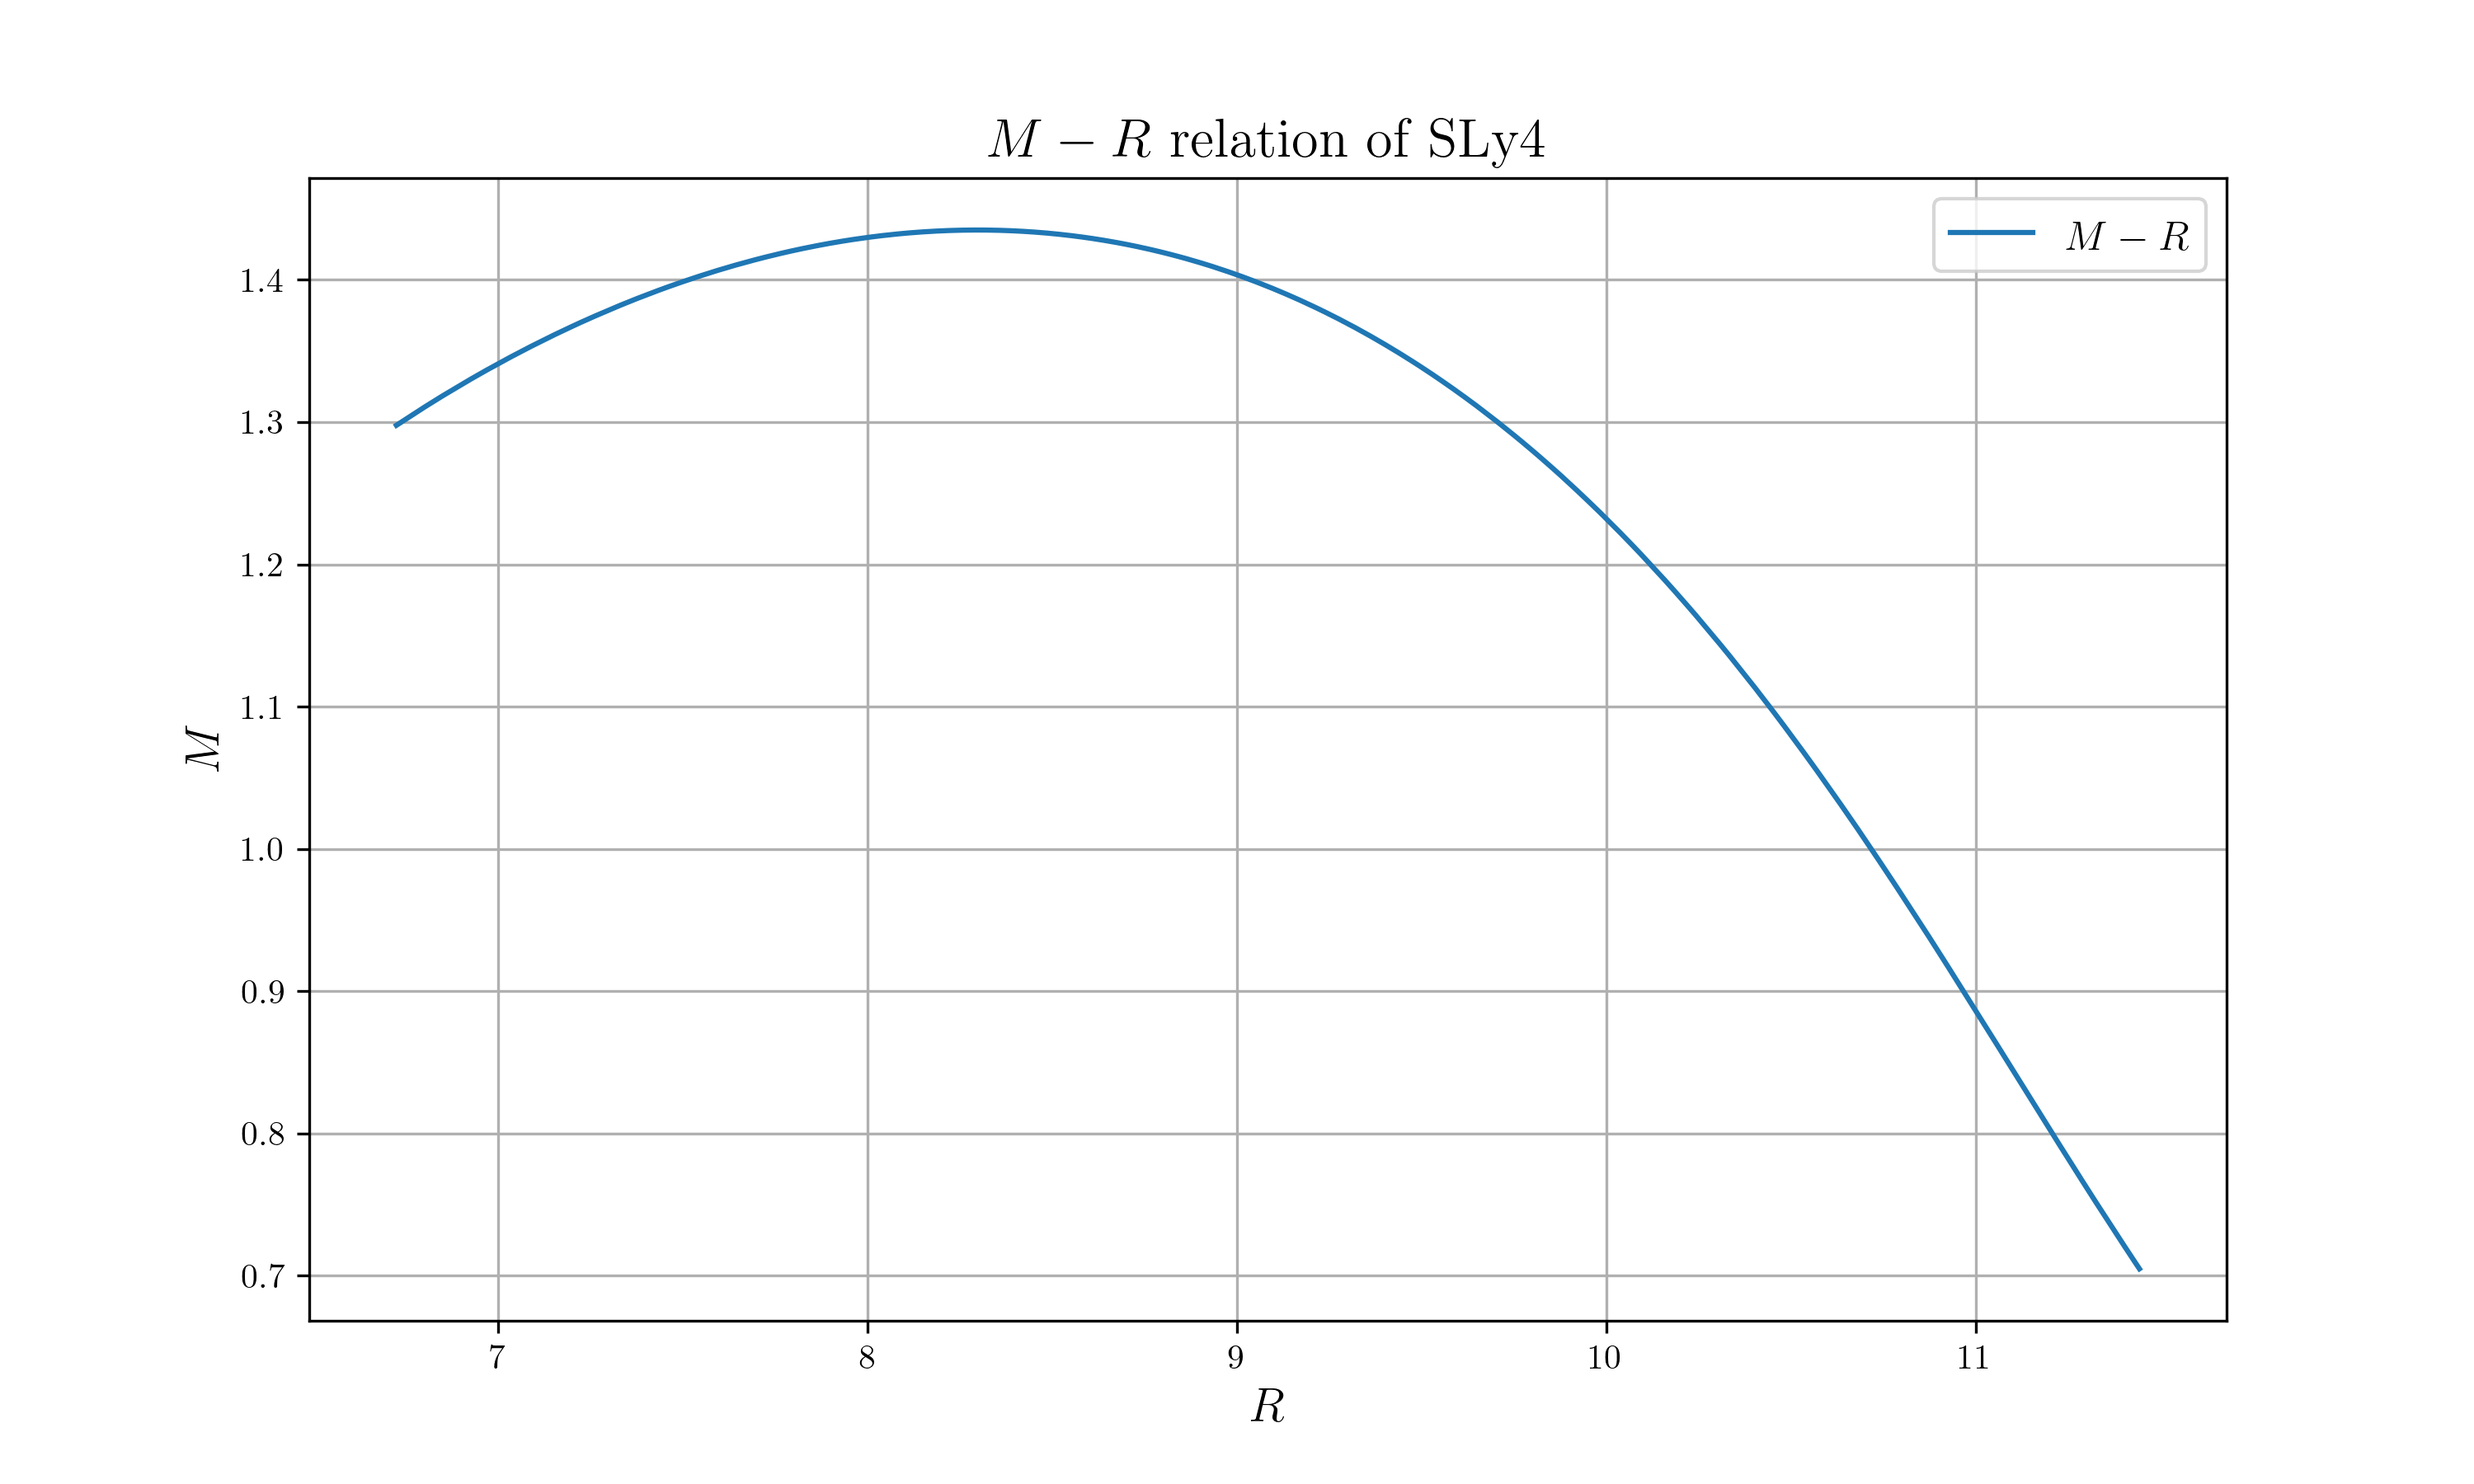
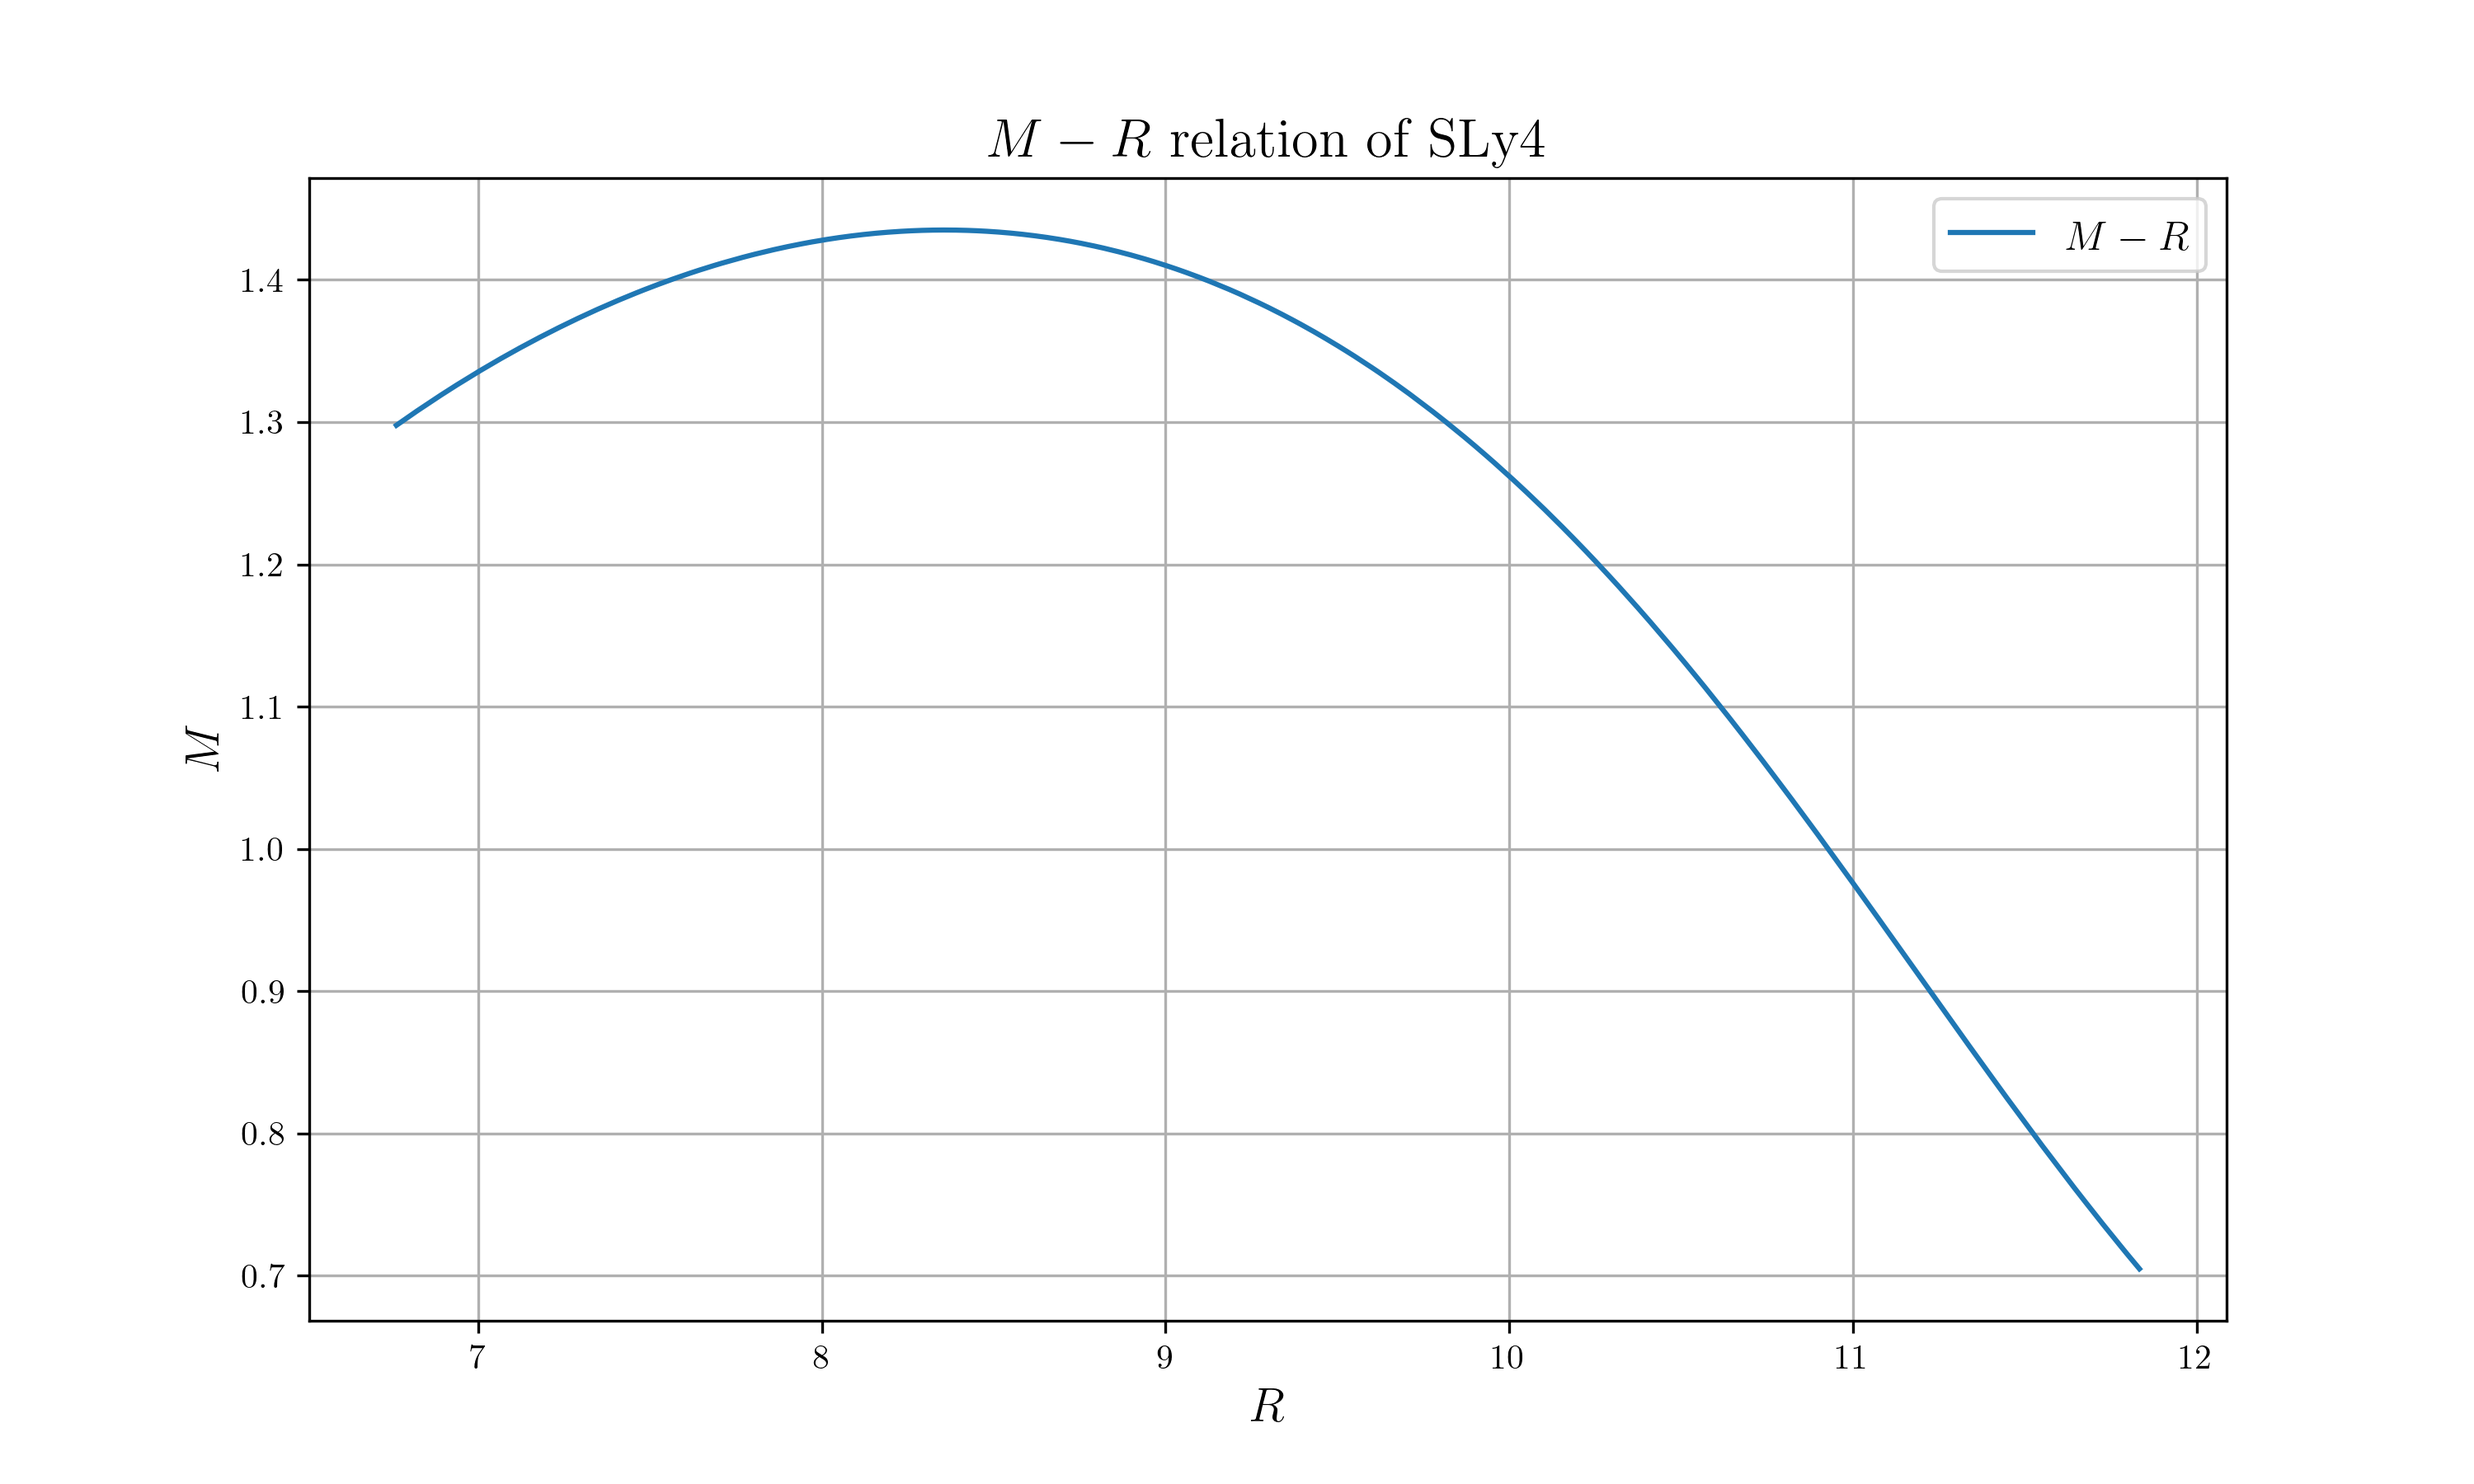
More extreme SLy4

diff --git a/src/bin/sly4_mr.rs b/src/bin/sly4_mr.rs
@@ -162,5 +162,5 @@ pub fn tov_piecewise_polytrope(st: &mut State<f64>) {
 
 pub fn stop_by_p(st: &ExplicitODE) -> bool {
     let rho = st.get_state().value[1];
-    K0 * rho.powf(GAMMA0) < 1e-10
+    K0 * rho.powf(GAMMA0) < 1e-12
 }
